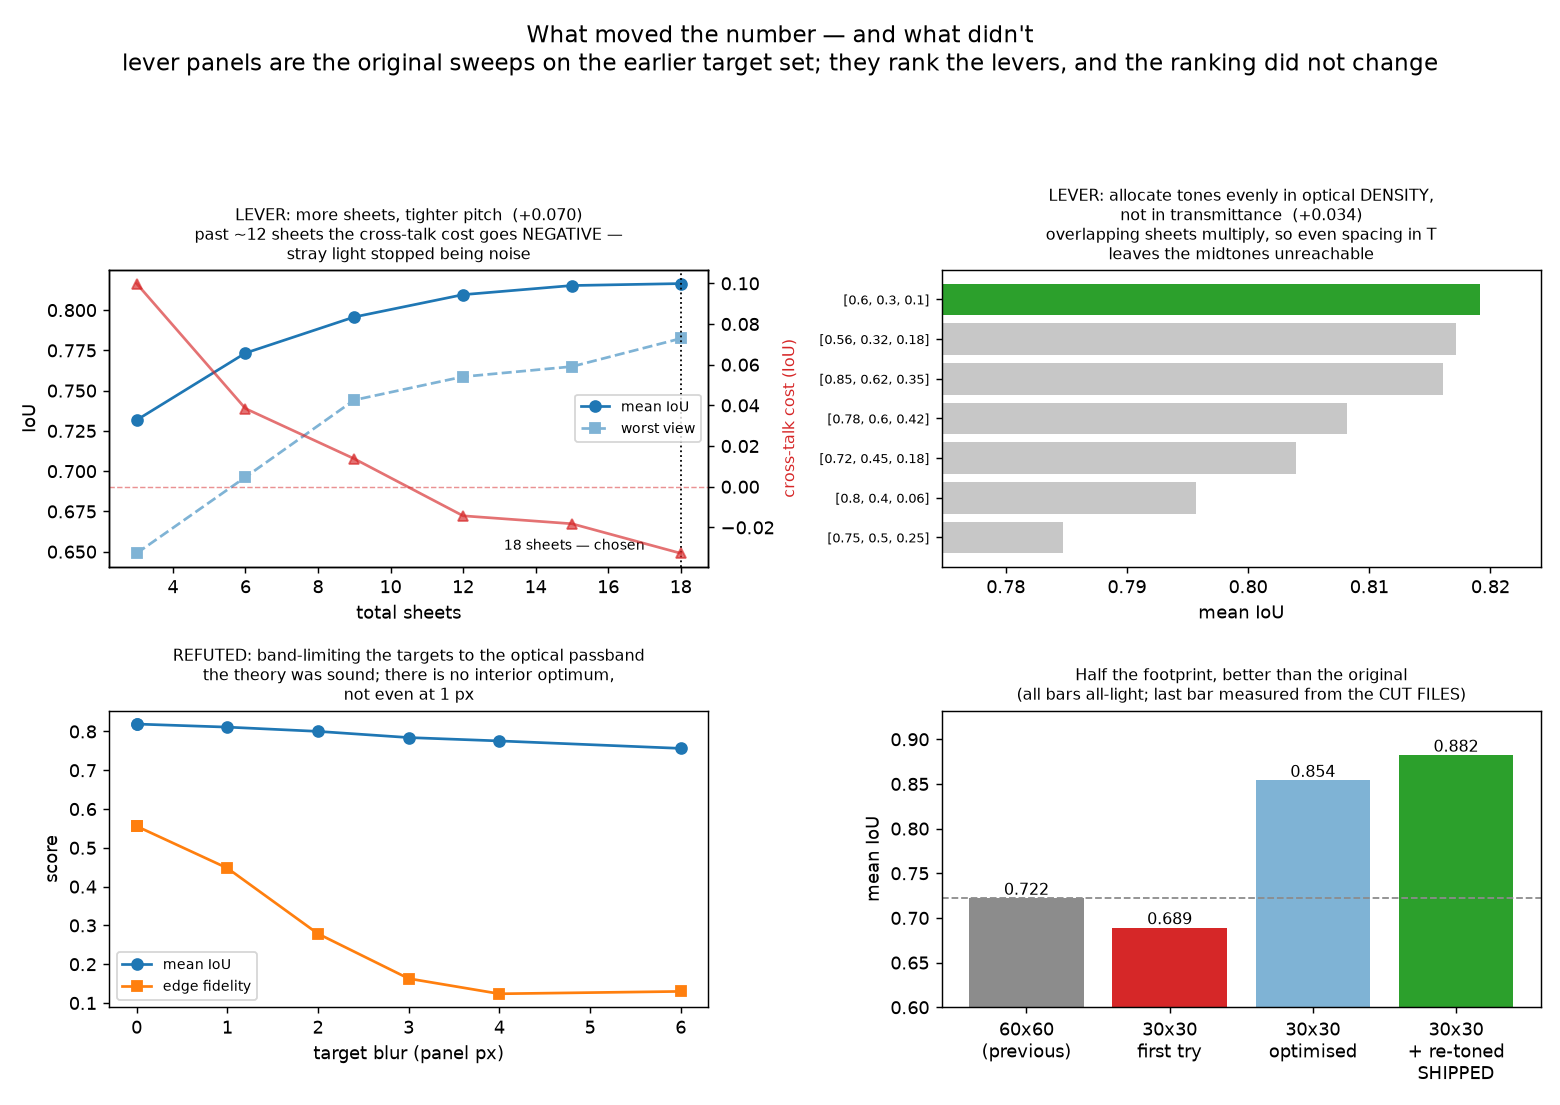
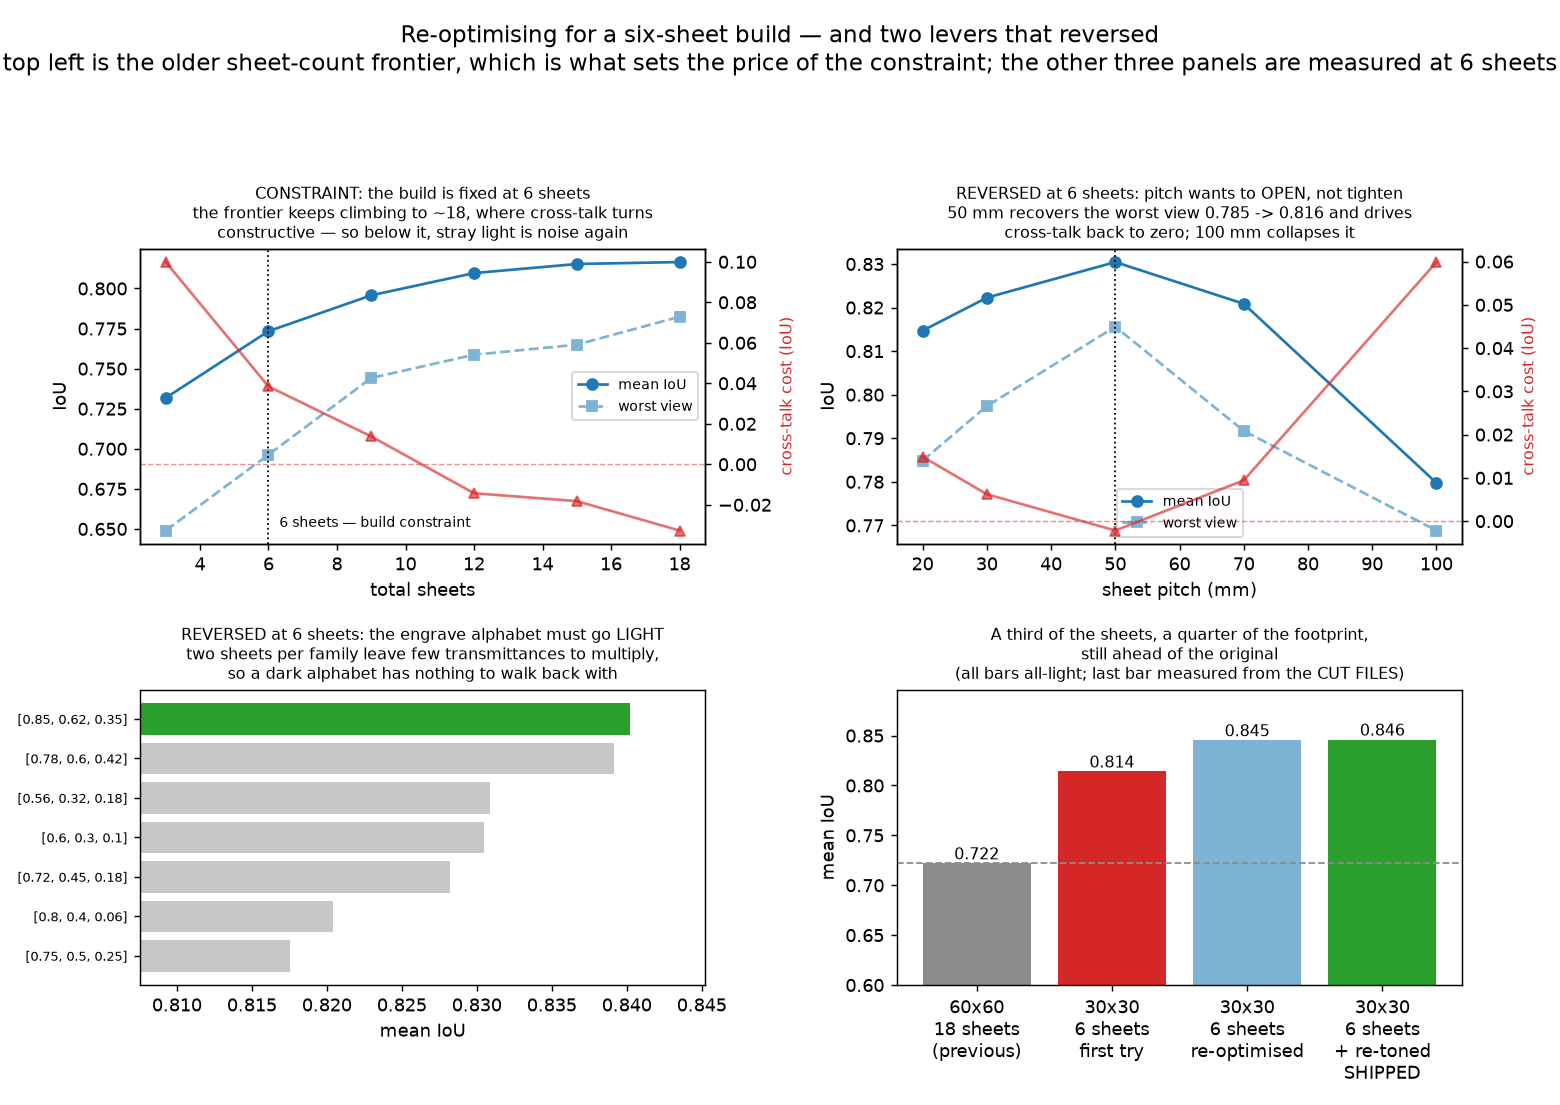
figures: derive the sheet count and headline numbers from the arm
The figure script hardcoded the 18-sheet build in four places - the arm default, the report path, the sheet count in two suptitles, and the annotation on the layout frontier - so pointing it at a six-sheet arm silently produced captions describing a build that was not on the page. Sheet counts now come from the scene and the report path comes from a REPORT map keyed by arm.

Also fixes a mislabelled bar: the headline chart read stage 1 from solve_summary, which is actually the raster AFTER re-toning, so the 'before' and 'after' bars were both post-retone. Stage 1 is the start of the descent log.

The two lever panels now plot the six-sheet sweeps and are retitled as reversals; the band-limit panel makes way for the pitch curve, which is the lever that actually moved at this sheet count. It stays refuted in the docs.

Changed region(s): [[0.0308, 0.1538, 1.0, 0.9846], [0.0, 0.0, 1.0, 0.0615], [0.8923, 0.4, 0.9231, 0.4308]]

diff --git a/pearl3_figures.py b/pearl3_figures.py
@@ -31,6 +31,10 @@ from shadowart.targets import color as C
 ROOT = Path(__file__).parent
 STOPS = {"back": "back (0 deg)", "side": "side (120 deg)", "front": "front (240 deg)"}
 
+# Where `pearl3_fab.py` parks each arm's shipped package. Figures read their headline numbers
+# out of that report rather than carrying literals, so they cannot drift from what was cut.
+REPORT = {"30v4": "out_pearl3_30/v4", "30v6": "out_pearl3_30/v6"}
+
 
 def _grey(rgb):
     """Transmittance RGB -> what the eye sees on the wall (dark = blocked light)."""
@@ -70,7 +74,7 @@ def fig_result(out, arm="30v4", sweeps=5):
               f"IoU {m2[w]['iou']:.3f}   SSIM {m2[w]['ssim']:.3f}   RMSE {m2[w]['rmse']:.3f}")
     s1, s2 = m1["_summary"], m2["_summary"]
     fig.suptitle(
-        "One object, three shadows — 30x30 cm, 18 engraved Perspex sheets\n"
+        f"One object, three shadows — 30x30 cm, {len(scene.panels)} engraved Perspex sheets\n"
         f"mean IoU {s1['mean_iou']:.3f} -> {s2['mean_iou']:.3f}    "
         f"worst view {s1['min_iou']:.3f} -> {s2['min_iou']:.3f}    "
         "(stage 2 also deletes 21% of the material)",
@@ -87,7 +91,8 @@ def _journal(name):
     return [json.loads(l) for l in p.open()] if p.exists() else []
 
 
-def fig_levers(out):
+def fig_levers(out, arm="30v6"):
+    sheets = P.ARMS[arm].n_per_family * 3
     fig, axes = plt.subplots(2, 2, figsize=(12, 8.5))
 
     # (a) the layout frontier -- the single biggest lever.
@@ -107,69 +112,81 @@ def fig_levers(out):
         ax = axes[0, 0]
         ax.plot(n, [r["mean_iou"] for r in rows], "o-", color="#1f77b4", label="mean IoU")
         ax.plot(n, [r["min_iou"] for r in rows], "s--", color="#7fb3d5", label="worst view")
-        ax.axvline(18, color="k", lw=1, ls=":")
-        ax.annotate("18 sheets — chosen", (18, min(r["min_iou"] for r in rows)),
-                    xytext=(-98, 2), textcoords="offset points", fontsize=8)
+        ax.axvline(sheets, color="k", lw=1, ls=":")
+        ax.annotate(f"{sheets} sheets — build constraint",
+                    (sheets, min(r["min_iou"] for r in rows)),
+                    xytext=(6, 2), textcoords="offset points", fontsize=8)
         ax2 = ax.twinx()
         ax2.plot(n, [r["crosstalk_cost"] for r in rows], "^-", color="#d62728", alpha=.65,
                  label="cross-talk cost")
         ax2.axhline(0, color="#d62728", lw=.8, ls="--", alpha=.5)
         ax2.set_ylabel("cross-talk cost (IoU)", color="#d62728", fontsize=9)
         ax.set_xlabel("total sheets"); ax.set_ylabel("IoU")
-        ax.set_title("LEVER: more sheets, tighter pitch  (+0.070)\n"
-                     "past ~12 sheets the cross-talk cost goes NEGATIVE —\n"
-                     "stray light stopped being noise", fontsize=9)
+        ax.set_title(f"CONSTRAINT: the build is fixed at {sheets} sheets\n"
+                     "the frontier keeps climbing to ~18, where cross-talk turns\n"
+                     "constructive — so below it, stray light is noise again", fontsize=9)
         ax.legend(fontsize=8, loc="center right")
 
-    # (b) tone allocation
-    rows = [r for r in _journal("sweep_engrave_30v3") if r["overrides"]]
+    # (a2) ...and how the pitch lever was re-measured underneath that constraint. At 18 sheets
+    # the footprint solve capped pitch at 20 mm, so "tighter is better" was only ever observed
+    # on one side of the optimum. With one gap instead of five there is room to open up.
+    rows = sorted((r for r in _journal("sweep_v6pitch_30v6") if "pitch" in r["overrides"]),
+                  key=lambda r: r["overrides"]["pitch"])
+    if rows:
+        p = [r["overrides"]["pitch"] * 1000 for r in rows]
+        ax = axes[0, 1]
+        ax.plot(p, [r["mean_iou"] for r in rows], "o-", color="#1f77b4", label="mean IoU")
+        ax.plot(p, [r["min_iou"] for r in rows], "s--", color="#7fb3d5", label="worst view")
+        ax2 = ax.twinx()
+        ax2.plot(p, [r["crosstalk_cost"] for r in rows], "^-", color="#d62728", alpha=.65)
+        ax2.axhline(0, color="#d62728", lw=.8, ls="--", alpha=.5)
+        ax2.set_ylabel("cross-talk cost (IoU)", color="#d62728", fontsize=9)
+        ax.axvline(50, color="k", lw=1, ls=":")
+        ax.set_xlabel("sheet pitch (mm)"); ax.set_ylabel("IoU")
+        ax.set_title("REVERSED at 6 sheets: pitch wants to OPEN, not tighten\n"
+                     "50 mm recovers the worst view 0.785 -> 0.816 and drives\n"
+                     "cross-talk back to zero; 100 mm collapses it", fontsize=9)
+        ax.legend(fontsize=8, loc="lower center")
+
+    # (b) tone allocation -- also re-measured, and also reversed.
+    rows = [r for r in _journal("sweep_v6engrave_30v6") if r["overrides"]]
     if rows:
         rows.sort(key=lambda r: r["mean_iou"])
         lab = [str(r["overrides"].get("engrave_levels", "?")) for r in rows]
-        ax = axes[0, 1]
+        ax = axes[1, 0]
         cols = ["#2ca02c" if r is rows[-1] else "#c7c7c7" for r in rows]
         ax.barh(range(len(rows)), [r["mean_iou"] for r in rows], color=cols)
         ax.set_yticks(range(len(rows)))
         ax.set_yticklabels(lab, fontsize=7)
-        ax.set_xlim(min(r["mean_iou"] for r in rows) - 0.01, max(r["mean_iou"] for r in rows) + 0.005)
+        ax.set_xlim(min(r["mean_iou"] for r in rows) - 0.01,
+                    max(r["mean_iou"] for r in rows) + 0.005)
         ax.set_xlabel("mean IoU")
-        ax.set_title("LEVER: allocate tones evenly in optical DENSITY,\n"
-                     "not in transmittance  (+0.034)\n"
-                     "overlapping sheets multiply, so even spacing in T\n"
-                     "leaves the midtones unreachable", fontsize=9)
-
-    # (c) a refuted hypothesis, plotted so it stays refuted
-    rows = sorted(_journal("sweep_bandlimit_30v4"),
-                  key=lambda r: r["overrides"].get("target_blur_px", 0))
-    if rows:
-        b = [r["overrides"].get("target_blur_px", 0) for r in rows]
-        ax = axes[1, 0]
-        ax.plot(b, [r["mean_iou"] for r in rows], "o-", label="mean IoU")
-        ax.plot(b, [r["edge"] for r in rows], "s-", label="edge fidelity")
-        ax.set_xlabel("target blur (panel px)"); ax.set_ylabel("score")
-        ax.set_title("REFUTED: band-limiting the targets to the optical passband\n"
-                     "the theory was sound; there is no interior optimum,\n"
-                     "not even at 1 px", fontsize=9)
-        ax.legend(fontsize=8)
+        ax.set_title("REVERSED at 6 sheets: the engrave alphabet must go LIGHT\n"
+                     "two sheets per family leave few transmittances to multiply,\n"
+                     "so a dark alphabet has nothing to walk back with", fontsize=9)
 
     # (d) the headline, end to end. Read from the shipped report so it cannot drift.
     ax = axes[1, 1]
-    rep = json.loads((ROOT / "out_pearl3_30" / "v4" / "fab_report.json").read_text())
+    rep = json.loads((ROOT / REPORT[arm] / "fab_report.json").read_text())
     shipped = rep["gate_fab_round_trip"]["summary"]["mean_iou"]
-    lab = ["60x60\n(previous)", "30x30\nfirst try", "30x30\noptimised", "30x30\n+ re-toned\nSHIPPED"]
-    val = [0.722, 0.689, 0.8539, shipped]
+    # `solve_summary` is the raster AFTER re-toning; stage 1 is where the descent started.
+    stage1 = rep["retone_descent"][0]["mean_iou"]
+    lab = [f"60x60\n18 sheets\n(previous)", f"30x30\n{sheets} sheets\nfirst try",
+           f"30x30\n{sheets} sheets\nre-optimised", f"30x30\n{sheets} sheets\n+ re-toned\nSHIPPED"]
+    val = [0.722, 0.814, stage1, shipped]
     cols = ["#8c8c8c", "#d62728", "#7fb3d5", "#2ca02c"]
     bars = ax.bar(lab, val, color=cols)
     for b_, v in zip(bars, val):
         ax.text(b_.get_x() + b_.get_width() / 2, v + .004, f"{v:.3f}", ha="center", fontsize=9)
     ax.axhline(0.722, color="#8c8c8c", ls="--", lw=1)
     ax.set_ylim(0.6, max(val) + 0.05); ax.set_ylabel("mean IoU")
-    ax.set_title("Half the footprint, better than the original\n"
+    ax.set_title("A third of the sheets, a quarter of the footprint,\n"
+                 "still ahead of the original\n"
                  "(all bars all-light; last bar measured from the CUT FILES)", fontsize=9)
 
-    fig.suptitle("What moved the number — and what didn't\n"
-                 "lever panels are the original sweeps on the earlier target set; "
-                 "they rank the levers, and the ranking did not change",
+    fig.suptitle("Re-optimising for a six-sheet build — and two levers that reversed\n"
+                 "top left is the older sheet-count frontier, which is what sets the price of "
+                 "the constraint; the other three panels are measured at 6 sheets",
                  fontsize=13)
     fig.tight_layout(rect=(0, 0, 1, 0.925))
     fig.savefig(out / "2_levers.png", dpi=130)
@@ -209,7 +226,7 @@ def fig_bakeoff(out):
 
 
 # --- figure 4: the thing you actually cut ----------------------------------------------
-def fig_fabrication(out, art, cid, arm="30v4"):
+def fig_fabrication(out, art, cid, arm="30v6"):
     from shadowart.solve import decompose
     import dataclasses
     scene = art["scene"]
@@ -240,7 +257,7 @@ def fig_fabrication(out, art, cid, arm="30v4"):
         ax.set_title(panel.name, fontsize=7, pad=2)
     for j in range(len(panels), nrow * ncol):
         axes[j // ncol][j % ncol].axis("off")
-    fig.suptitle("The 18 sheets as exported — one DXF/SVG each, shaded by engrave tone\n"
+    fig.suptitle(f"The {len(panels)} sheets as exported — one DXF/SVG each, shaded by engrave tone\n"
                  "blue outline = the clear Perspex square that gets cut; "
                  "greys = laser engrave layers ENG_L / ENG_D / ENG_K", fontsize=11)
     fig.tight_layout(rect=(0, 0, 1, 0.93))
@@ -251,7 +268,7 @@ def fig_fabrication(out, art, cid, arm="30v4"):
 def main(argv=None):
     ap = argparse.ArgumentParser(description=__doc__,
                                  formatter_class=argparse.RawDescriptionHelpFormatter)
-    ap.add_argument("--arm", default="30v4")
+    ap.add_argument("--arm", default="30v6", choices=sorted(REPORT))
     ap.add_argument("--out", default="examples/pearl3")
     ap.add_argument("--sweeps", type=int, default=5)
     a = ap.parse_args(argv)
@@ -261,7 +278,7 @@ def main(argv=None):
     print("1/4 result ...")
     art, cid = fig_result(out, a.arm, a.sweeps)
     print("2/4 levers ...")
-    fig_levers(out)
+    fig_levers(out, a.arm)
     print("3/4 bake-off ...")
     fig_bakeoff(out)
     print("4/4 fabrication ...")
